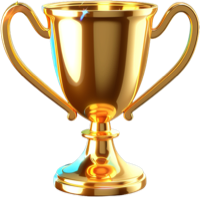
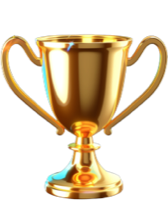
feat: fab "Echanger deux cases" pres d'Invoquer, corrections rituel des lunes/trophee/pop-ups IAP
- Nouveau bouton "Echanger" a cote d'"Invoquer" sur l'ecran principal,
  qui declenche directement le mode d'echange (meme flux que le bouton
  de la Boutique Gems, onBuyGemItem("swapCells")). Loris: "c'est un
  service vraiment tres tres tres tres utile", enterre a 3 taps -
  l'idee est de le rendre plus facile a utiliser ET de donner plus
  envie de Gems (donc plus envie de regarder des pubs Gems). Se grise
  automatiquement si les Gems manquent, comme les boutons Invoquer.
- Popup "Le rituel des lunes" : icone remplacee par l'illustration
  "Dieux du Cosmos" (trident) au lieu du 🔱 brut. Corrige aussi un vrai
  bug de mise en page : le texte etait ecrit sur 2 lignes dans le HTML
  source, et .modalCard p a white-space:pre-line (necessaire ailleurs
  pour des listes multi-lignes) - ce retour a la ligne "innocent" du
  code source devenait donc un vrai saut de ligne force en plein
  milieu de la phrase, juste avant "enfin a l'appel" (Loris: "il
  apparait une ligne en dessous sans aucune raison"). Remis sur une
  seule ligne, le texte s'enroule maintenant naturellement.
- Icone du trophee (succes.png) recentree - Loris la trouvait un peu
  trop haute dans le menu, et trop haute ET trop grande dans
  Progression. Verifie numeriquement (centre de masse pondere par
  alpha) que le visuel etait bien decale d'environ 20px vers le haut
  par rapport au centre du canvas (la coupe large du trophee pese plus
  que son pied fin) malgre une bounding-box techniquement deja
[…]

diff --git a/www/index.html b/www/index.html
@@ -37,7 +37,7 @@
     <meta name="apple-mobile-web-app-title" content="Godspark" />
     <meta name="apple-mobile-web-app-capable" content="yes" />
     <meta name="theme-color" content="#0a0620" />
-    <link rel="stylesheet" href="css/style.css?v=63" />
+    <link rel="stylesheet" href="css/style.css?v=64" />
   </head>
   <body>
     <div id="starsBg"></div>
@@ -129,6 +129,19 @@
               <span id="invokeCostGems">5</span>
             </button>
           </div>
+        </div>
+        <!-- Loris: "Échanger deux cases" (Boutique Gems) is a genuinely
+         useful service, buried 3 taps deep - surfacing it right next to
+         Invoquer should make it easier to reach for AND make Gems (so
+         watching Gems ads) more desirable. Reuses the exact same
+         onBuyGemItem("swapCells") flow as the Boutique's own button - see
+         wireEvents() (input.js). -->
+        <div class="swapSection">
+          <div class="invokeSectionLabel">Échanger</div>
+          <button class="btn swapCellsBtn" id="fabSwapCells" aria-label="Échanger deux cases">
+            <span class="emoji">🔀</span>
+            <img class="inlineCurrencyIcon" src="assets/ui/gems_ad.png" alt="Gems" /><span id="swapCellsCost">50</span>
+          </button>
         </div>
         <button class="btn bigbang hidden" id="bigBangBtn">
           <img class="inlineCurrencyIcon" src="assets/ui/bigbang.png" alt="" />
@@ -498,11 +511,18 @@
     <!-- God ritual: first choice is mandatory, later ones are managed from the Gods panel -->
     <div class="modalOverlay hidden" id="godRitualModal">
       <div class="modalCard">
-        <h3>🔱 Le rituel des lunes</h3>
-        <p>
-          Quatre lunes se sont unies sous ta main. Un Dieu du Cosmos répond
-          enfin à l'appel — choisis celui qui t'accompagnera pour cette partie.
-        </p>
+        <h3>
+          <img class="inlineCurrencyIcon" src="assets/ui/dieux.png" alt="" />
+          Le rituel des lunes
+        </h3>
+        <!-- Was split across 2 lines in the source - .modalCard p has
+         white-space:pre-line (so multi-line reward-list text can use real
+         line breaks elsewhere), which turned that harmless-looking source
+         wrap into an actual forced line break mid-sentence, right before
+         "enfin à l'appel" (Loris: "il apparait une ligne en dessous sans
+         aucune raison"). Kept on one single line here on purpose - let it
+         wrap naturally instead. -->
+        <p>Quatre lunes se sont unies sous ta main. Un Dieu du Cosmos répond enfin à l'appel — choisis celui qui t'accompagnera pour cette partie.</p>
         <div class="godRitualList" id="godRitualList"></div>
       </div>
     </div>
@@ -552,16 +572,16 @@
       </div>
     </div>
 
-    <script src="js/config.js?v=63"></script>
-    <script src="js/state.js?v=63"></script>
-    <script src="js/audio.js?v=63"></script>
-    <script src="js/services.js?v=63"></script>
-    <script src="js/economy.js?v=63"></script>
-    <script src="js/gods.js?v=63"></script>
-    <script src="js/retention.js?v=63"></script>
-    <script src="js/ui.js?v=63"></script>
-    <script src="js/input.js?v=63"></script>
-    <script src="js/main.js?v=63"></script>
+    <script src="js/config.js?v=64"></script>
+    <script src="js/state.js?v=64"></script>
+    <script src="js/audio.js?v=64"></script>
+    <script src="js/services.js?v=64"></script>
+    <script src="js/economy.js?v=64"></script>
+    <script src="js/gods.js?v=64"></script>
+    <script src="js/retention.js?v=64"></script>
+    <script src="js/ui.js?v=64"></script>
+    <script src="js/input.js?v=64"></script>
+    <script src="js/main.js?v=64"></script>
     <script type="module" src="js/native-bridge.js"></script>
   </body>
 </html>

diff --git a/www/css/style.css b/www/css/style.css
@@ -99,6 +99,18 @@ html,body{margin:0;padding:0;height:100%;background:var(--bg-deep);color:var(--t
   text-transform:uppercase;letter-spacing:.04em;padding-left:2px;}
 .invokeSectionRow{display:flex;gap:6px;}
 .invokeSectionRow .btn{padding:8px 12px;font-size:13px;}
+/* "Échanger deux cases" fab, right next to Invoquer (Loris: c'est un
+   service tres utile, mal mis en avant a 3 taps dans la Boutique - le
+   sortir ici doit a la fois le rendre plus facile a utiliser et donner
+   plus envie de Gems, donc plus envie de regarder les pubs Gems). Same
+   label-then-button shape as .invokeSection, teal accent (matches the
+   Gems currency color) to read as its own distinct action rather than a
+   3rd Invoquer choice. No dedicated artwork yet (🔀 emoji, same fallback
+   every not-yet-illustrated spot uses) - swap for a custom icon later if
+   Loris wants one made. */
+.swapSection{display:flex;flex-direction:column;gap:3px;}
+.swapCellsBtn{background:linear-gradient(135deg,#0891b2,#155e75);border-color:#22d3ee77;
+  box-shadow:0 3px 12px #0891b255;padding:8px 12px;font-size:13px;}
 .btn.bigbang{background:linear-gradient(135deg,#f59e0b,#dc2626);border-color:#fbbf2477;box-shadow:0 4px 16px #f59e0b66;animation:bigBangPulse 1.4s ease-in-out infinite;}
 /* The Big Bang icon's own warm tones (reds/oranges) blend into this
    button's orange-to-red gradient (Loris) - a small dark backdrop behind
@@ -319,12 +331,6 @@ html,body{margin:0;padding:0;height:100%;background:var(--bg-deep);color:var(--t
   background:radial-gradient(circle at 35% 30%,#3a3170,#211c46 70%);
   border:1px solid rgba(255,255,255,.08);box-shadow:inset 0 1px 2px rgba(255,255,255,.08);}
 .fabIcon img.uiIcon{width:74%;height:74%;object-fit:contain;}
-/* Succès (trophy) read a touch too large next to the other badge icons
-   (Loris) - same per-icon override pattern as tier iconScale, just via a
-   src-attribute selector since these fab/drawer icons aren't driven by a
-   JS-side scale field like TIERS entries are. */
-.fabIcon img.uiIcon[src*="succes.png"],
-.drawerIcon img.uiIcon[src*="succes.png"]{width:64%;height:64%;}
 .fabLabel{white-space:nowrap;}
 /* These two labels alternate between a fixed string ("Boost x2", "+8 Gems")
    and a countdown ("5s" vs "12s" vs "1m 30s") - without a stable width, the

diff --git a/www/js/retention.js b/www/js/retention.js
@@ -37,22 +37,25 @@ function trackFusionEvent(state, newTier) {
 
 // ---- IAP soft-prompts on fusion milestones (Loris) ----
 // Timed to real progress rather than a session/day counter: a player who's
-// fused 10 times has proven they're actually playing (not just poking at
-// the tutorial), a fair moment to surface the starter pack; 50 fusions is
-// a stronger engagement signal, a better moment for the subscription
-// pitch. `state.lifetime.fusions` only ever increases, so the `=== N`
-// checks each fire at most once per save by construction - the
-// `promptsShown` flags exist so a promo whose OTHER condition wasn't met
-// at the exact milestone (offer expired / already owned) doesn't leave a
-// half-triggered state, and so this stays readable as "have we shown this
-// yet" rather than relying on the exact-equality trick alone.
+// fused enough times has proven they're actually playing (not just poking
+// at the tutorial), a fair moment to surface the starter pack; further in
+// is a stronger engagement signal, a better moment for the subscription
+// pitch. Both thresholds were originally 10/50 - Loris found both fired
+// too early (10 fusions is a minute or two of play), bumped to 25/80 so
+// there's real investment behind the pitch by the time it shows.
+// `state.lifetime.fusions` only ever increases, so the `=== N` checks each
+// fire at most once per save by construction - the `promptsShown` flags
+// exist so a promo whose OTHER condition wasn't met at the exact milestone
+// (offer expired / already owned) doesn't leave a half-triggered state,
+// and so this stays readable as "have we shown this yet" rather than
+// relying on the exact-equality trick alone.
 function checkFusionPromo(state) {
-  if (state.lifetime.fusions === 10 && !state.promptsShown.starterPack
+  if (state.lifetime.fusions === 25 && !state.promptsShown.starterPack
     && daysBetween(state.firstPlayedDay, todayStr()) <= 2) {
     state.promptsShown.starterPack = true;
     return "starterPack";
   }
-  if (state.lifetime.fusions === 50 && !state.promptsShown.vipPass && !isVipActive(state)) {
+  if (state.lifetime.fusions === 80 && !state.promptsShown.vipPass && !isVipActive(state)) {
     state.promptsShown.vipPass = true;
     return "vipPass";
   }

diff --git a/www/js/ui.js b/www/js/ui.js
@@ -14,6 +14,7 @@ const dom = {
   invokeBtnStardust: $("invokeBtnStardust"),
   invokeBtnGems: $("invokeBtnGems"),
   invokeCost: $("invokeCost"),
+  fabSwapCells: $("fabSwapCells"),
   bigBangBtn: $("bigBangBtn"),
   selectionHint: $("selectionHint"),
   toastContainer: $("toastContainer"),
@@ -296,10 +297,14 @@ function updateHeader() {
   const costStr = formatNumber(cost);
   if (costStr !== lastHeaderRender.cost) { dom.invokeCost.textContent = costStr; lastHeaderRender.cost = costStr; }
   if (!lastHeaderRender.gemsCostSet) { $("invokeCostGems").textContent = GEMS_INVOKE_COST; lastHeaderRender.gemsCostSet = true; }
+  if (!lastHeaderRender.swapCostSet) { $("swapCellsCost").textContent = SHOP_GEM_ITEMS.find(i => i.id === "swapCells").cost; lastHeaderRender.swapCostSet = true; }
   const disabled = state.stardust < cost;
   if (disabled !== lastHeaderRender.disabled) { dom.invokeBtnStardust.classList.toggle("disabled", disabled); lastHeaderRender.disabled = disabled; }
   const gemsDisabled = state.gems < GEMS_INVOKE_COST;
   if (gemsDisabled !== lastHeaderRender.gemsDisabled) { dom.invokeBtnGems.classList.toggle("disabled", gemsDisabled); lastHeaderRender.gemsDisabled = gemsDisabled; }
+  const swapCost = SHOP_GEM_ITEMS.find(i => i.id === "swapCells").cost;
+  const swapDisabled = state.gems < swapCost || Game.swapArmed;
+  if (swapDisabled !== lastHeaderRender.swapDisabled) { dom.fabSwapCells.classList.toggle("disabled", swapDisabled); lastHeaderRender.swapDisabled = swapDisabled; }
 
   const canBB = hasUniverseTile(state);
   if (canBB !== lastHeaderRender.canBB) { dom.bigBangBtn.classList.toggle("hidden", !canBB); lastHeaderRender.canBB = canBB; }

diff --git a/www/js/input.js b/www/js/input.js
@@ -837,6 +837,7 @@ function wireEvents() {
   dom.fabWheel.addEventListener("click", openWheelModal);
   $("fabBoost").addEventListener("click", onWatchProdBoostAd);
   $("fabUnlockCellAd").addEventListener("click", onUnlockCellAd);
+  dom.fabSwapCells.addEventListener("click", () => onBuyGemItem("swapCells"));
   $("fabCurrentGod").addEventListener("click", () => openPanel("gods"));
   $("fabRestart").addEventListener("click", openRestartModal);
   $("fabGemsAd").addEventListener("click", onWatchGemsAd);
